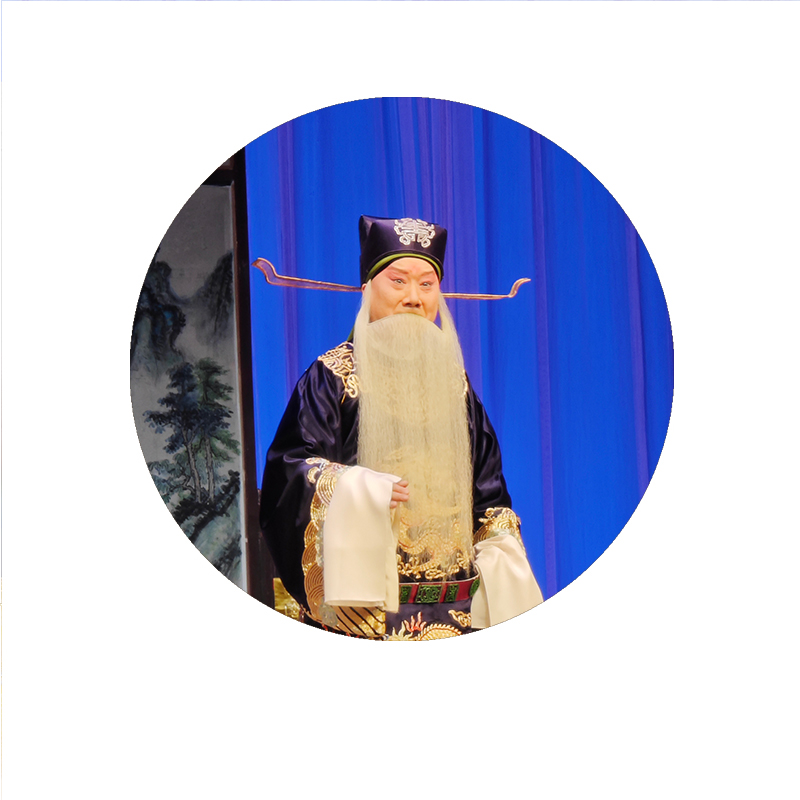
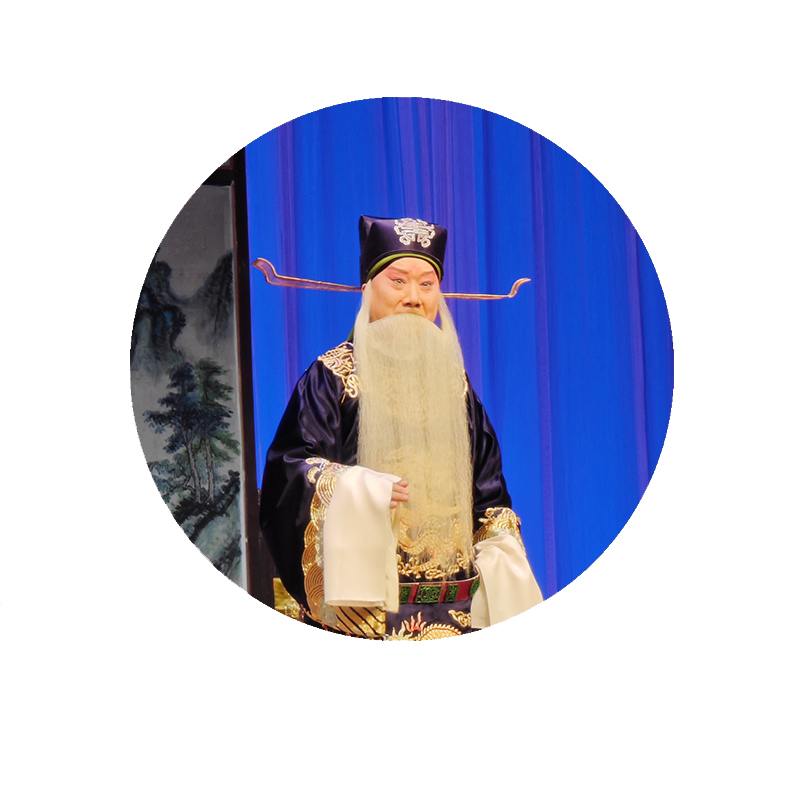
resize images

diff --git a/_posts/2023-02-17-opera.md b/_posts/2023-02-17-opera.md
@@ -3,13 +3,6 @@ title: 白蛇传·李林晓·节选与返场·长安大戏院
 tags: 
 - Peking Opera
 cover: /assets/images/20230217/20230217.jpg
-mode: immersive
-header:
-  theme: dark
-article_header:
-  type: cover
-  image:
-    src: /assets/images/20230217/20230217-header-cover.jpg
 ---
 
 【李林晓】 长安大戏院2月17日 李林晓个人专场演出——京剧《白蛇传》 节选
@@ -63,3 +56,39 @@ article_header:
 > 原来是不耐烦已经睡困，  
 > 【摇板】   
 > 待我来再与你重订鸳盟。
+
+# 剧照
+
+<style>
+  .swiper-demo {
+    height: 600px;
+  }
+  .swiper-demo .swiper__slide {
+    display: flex;
+    justify-content: center;   
+    font-size: 3rem;
+    color: #fff;
+  }
+  .swiper-demo--image .swiper__slide:nth-child(n) {
+    background-color: #123;
+  }
+  img {
+    object-fit: contain;
+  }
+</style>
+
+<div class="swiper my-3 swiper-demo swiper-demo--image swiper-demo--0">
+  <div class="swiper__wrapper">
+    <div class="swiper__slide"><img class="lightbox-ignore" src="/assets/images/20230217/20230217-header-cover.jpg"/></div>
+  </div>
+  <div class="swiper__button swiper__button--prev fas fa-chevron-left"></div>
+  <div class="swiper__button swiper__button--next fas fa-chevron-right"></div>
+</div>
+
+<script>
+  {%- include scripts/lib/swiper.js -%}
+  var SOURCES = window.TEXT_VARIABLES.sources;
+  window.Lazyload.js(SOURCES.jquery, function() {
+    $('.swiper-demo--0').swiper();
+  });
+</script>

diff --git a/_posts/2023-03-11-opera.md b/_posts/2023-03-11-opera.md
@@ -3,13 +3,6 @@ title: 战太平·杨少彭·返场伍子胥·长安大戏院
 tags: 
 - Peking Opera
 cover: /assets/images/20230311/20230311.jpg
-mode: immersive
-header:
-  theme: dark
-article_header:
-  type: cover
-  image:
-    src: /assets/images/20230311/20230311-header-cover.jpg
 ---
 
 【杨少彭】 长安大戏院3月11日 京剧《战太平》 返场《伍子胥》
@@ -24,3 +17,38 @@ article_header:
 > 父纳子妻理难容。   
 > 我的父谏奏反把命送，   
 > 满门家眷血染红。
+
+# 剧照
+
+<style>
+  .swiper-demo {
+    height: 600px;
+  }
+  .swiper-demo .swiper__slide {
+    display: flex;
+    justify-content: center;   
+    font-size: 3rem;
+    color: #fff;
+  }
+  .swiper-demo--image .swiper__slide:nth-child(n) {
+    background-color: #123;
+  }
+  img {
+    object-fit: contain;
+  }
+</style>
+
+<div class="swiper my-3 swiper-demo swiper-demo--image swiper-demo--0">
+  <div class="swiper__wrapper">
+    <div class="swiper__slide"><img class="lightbox-ignore" src="/assets/images/20230311/20230311-header-cover.jpg"/></div>
+  <div class="swiper__button swiper__button--prev fas fa-chevron-left"></div>
+  <div class="swiper__button swiper__button--next fas fa-chevron-right"></div>
+</div>
+
+<script>
+  {%- include scripts/lib/swiper.js -%}
+  var SOURCES = window.TEXT_VARIABLES.sources;
+  window.Lazyload.js(SOURCES.jquery, function() {
+    $('.swiper-demo--0').swiper();
+  });
+</script>

diff --git a/_posts/2023-06-14-opera.md b/_posts/2023-06-14-opera.md
@@ -430,13 +430,7 @@ article_header:
     <div class="swiper__slide"><img class="lightbox-ignore" src="/assets/images/20230614/193146.jpg"/></div>
     <div class="swiper__slide"><img class="lightbox-ignore" src="/assets/images/20230614/200711.jpg"/></div>
     <div class="swiper__slide"><img class="lightbox-ignore" src="/assets/images/20230614/200716.jpg"/></div>
-    <div class="swiper__slide"><img class="lightbox-ignore" src="/assets/images/20230614/200719.jpg"/></div>
     <div class="swiper__slide"><img class="lightbox-ignore" src="/assets/images/20230614/201614.jpg"/></div>
-    <div class="swiper__slide"><img class="lightbox-ignore" src="/assets/images/20230614/203630.jpg"/></div>
-    <div class="swiper__slide"><img class="lightbox-ignore" src="/assets/images/20230614/203632.jpg"/></div>
-    <div class="swiper__slide"><img class="lightbox-ignore" src="/assets/images/20230614/210631.jpg"/></div>
-    <div class="swiper__slide"><img class="lightbox-ignore" src="/assets/images/20230614/214408.jpg"/></div>
-    <div class="swiper__slide"><img class="lightbox-ignore" src="/assets/images/20230614/214413.jpg"/></div>
     <div class="swiper__slide"><img class="lightbox-ignore" src="/assets/images/20230614/214616.jpg"/></div>
     <div class="swiper__slide"><img class="lightbox-ignore" src="/assets/images/20230614/214618.jpg"/></div>
   </div>

diff --git a/_posts/2023-12-29-opera.md b/_posts/2023-12-29-opera.md
@@ -1,0 +1,22 @@
+---
+title: 四郎探母·朱强 杨少彭 张梓溪等·节选·长安大戏院
+tags: 
+- Peking Opera
+cover: /assets/images/20231229.jpg
+---
+
+【朱强·杨少彭·张梓溪等】 长安大戏院12月29日 京剧《四郎探母》 节选
+<!--more-->
+
+## 未开言不由人泪流满面·杨少彭
+
+<div>{%- include extensions/youtube.html id='2izjFR2UoyI' -%}</div>
+
+## 我和你好夫妻恩德不浅·杨少彭 张梓溪
+
+<div>{%- include extensions/youtube.html id='5oAHozTbX4I' -%}</div>
+
+## 老娘亲请上受儿拜·朱强
+
+<div>{%- include extensions/youtube.html id='QYavghJNbU4' -%}</div>
+

diff --git a/_posts/2023-10-28-opera.md b/_posts/2023-10-28-opera.md
@@ -67,7 +67,7 @@ cover: /assets/images/20231028.jpg
 > 在古城曾斩过老蔡阳的头。    
 > 他三弟翼德威风有，   
 > 丈八蛇矛惯取咽喉。   
-> 鞭打都邮他气冲牛斗，   
+> 鞭打督邮他气冲牛斗，   
 > 虎牢关前战温侯。   
 > 当阳桥前一声吼，   
 > 喝断了桥梁水倒流。   

diff --git a/_posts/2023-12-02-opera.md b/_posts/2023-12-02-opera.md
@@ -22,7 +22,7 @@ cover: /assets/images/20231202.jpg
 > 在古城曾斩过老蔡阳的头。    
 > 他三弟翼德威风有，   
 > 丈八蛇矛惯取咽喉。   
-> 鞭打都邮他气冲牛斗，   
+> 鞭打督邮他气冲牛斗，   
 > 虎牢关前战温侯。   
 > 当阳桥前一声吼，   
 > 喝断了桥梁水倒流。   

diff --git a/_posts/2023-02-12-opera.md b/_posts/2023-02-12-opera.md
@@ -2,7 +2,7 @@
 title: 玉堂春·王茜·返场秦香莲·吉祥大戏院
 tags: 
 - Peking Opera
-cover: /assets/images/20230212/20230212.jpg
+cover: /assets/images/20230212.jpg
 ---
 
 【王茜】 吉祥大戏院2月12日 京剧《玉堂春》 返场《秦香莲》
